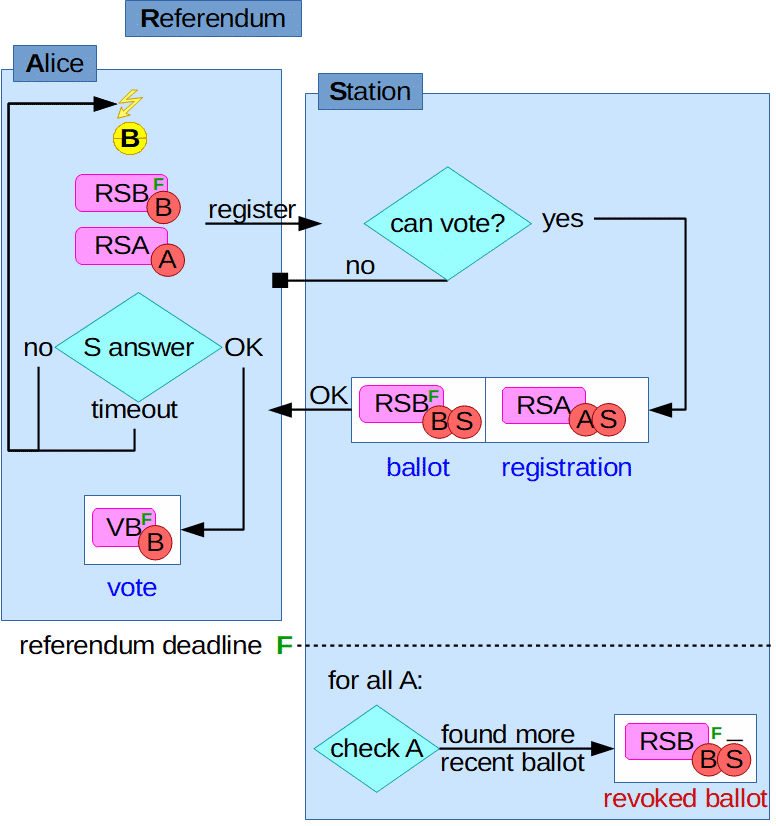
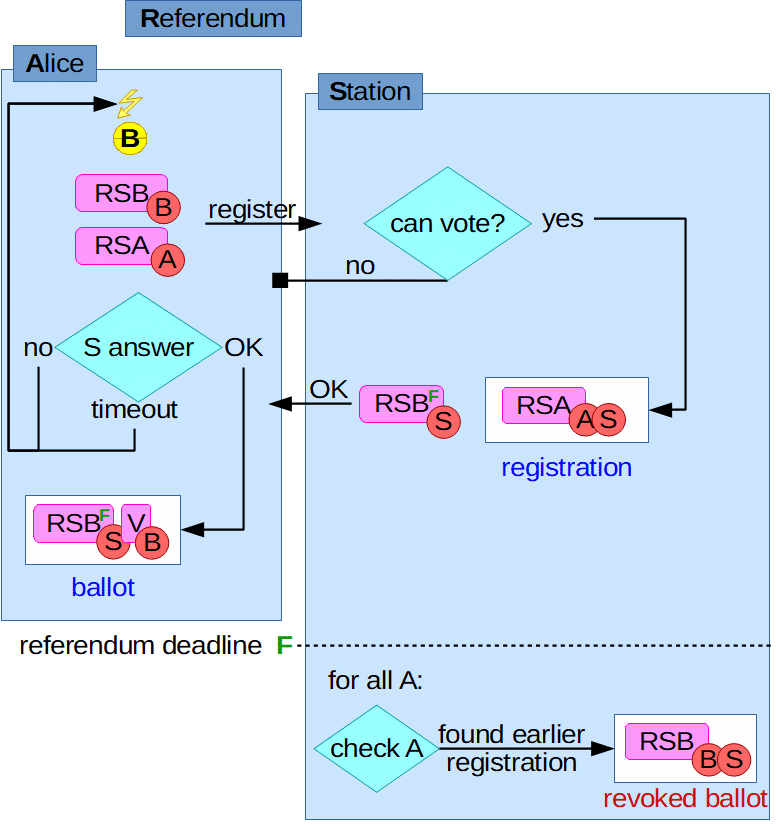
Simplified & reinforced

diff --git a/voting.md b/voting.md
@@ -58,40 +58,39 @@ It is summarized on the following figure:
 ### 1.1 Registration
 
 The citizen `A` choose a referendum `R` and a polling station `S` she will use for that vote.
+`F` is the *deadline* of `R`.
 `R` includes a reference to a trustee `T` which represents the authority for `R`.
 `A` creates a new pair of cryptographic keys `B` for her ballot.
 `A` creates a ballot structure containing the public keys of `R`, `S` and `B` and signs it with her `B` key: `RSBb`.
-The ballot also contains a publication date (*published*) set to `F`, which is the *deadline* of `R`.
+The ballot also contains a publication date (*published*) set to the current date, which means it can be published now.
 That means, it won't be made public before this date.
 `A` creates a registration structure, that is containing the public keys of `R`, `S` and `A` and sign it with her `A` key: `RSAa`.
-The publication date (*published*) of the registration is set to the current date, which means it can be published now.
+The publication date (*published*) of the registration is set to the current date.
 `A` sends `RSBb + RSAa` to `S` and waits for an answer.
-If `S` takes too long to answer or answers anything else than `RSBbs + RSAas`, proceed to **1.1 Registration**, likely with a different polling station.
-Check the answer of `S`: `R`, `S`, `B` and `A` public keys and check the 4 signatures.
+If `S` takes too long to answer or answers anything else than `RSBs + RSAas`, proceed to **1.1 Registration**, likely with a different polling station.
+Check the answer of `S`: `R`, `S`, `B` and `A` public keys and check the 3 signatures.
 If any check fails, proceed to **1.1 Registration**, likely with a different polling station.
 Else proceed to **1.2 Vote**.
 
 ### 1.2 Vote
 
-`A` creates a vote structure containing her answer `V` to `R`, her `B` key and signs it with her `B` key: `VBb`.
-The vote publication date (*published*) is set to `F`.
-That means, it won't be made public before this date.
-After some random time but before `F`, `A` publishes `VBb`.
+`A` uses the `RSBs` ballot structure it just received from `S`, add her vote answer `V` and signs it with her `B` key: `RSBsVb`.
+After some random time but before `F`, `A` publishes `RSBsVb`.
 
 ## 2 Stations
 
 ### 2.1 Registration Desk
 
 If `S` receives no `RSBb + RSAa` message from `A` until the *deadline* of `R` is reached, proceed to **2.2 Registrations Check**.
-`S` receives `RSBb + RSAa`. It checks that `S` corresponds to itself, that `R` exists, that the *published* and *expired* dates are correct and checks the 2 signatures. The *published* date should be very close to now for `RSAa` and `F` for `RSBb`.
+`S` receives `RSBb + RSAa`. It checks that `S` corresponds to itself, that `R` exists, that the *published* and *expired* dates are correct and checks the 2 signatures. The *published* date should be very close to now for `RSAa` and `RSBb`.
 `S` also checks that `A` did not already registered with it.
 Then, `S` checks the available publications to determine if `A` is allowed to vote to `R`:
 First, `S` checks if there is a valid publication signed by `T` and endorsing `A`.
 Then, `S` checks from publications signed by `T` if the *latitude* and *longitude* of `A` lies in the *area* of `R`.
 If any check fails, `S` replies "no" to `A`, with possibly some explanation why it refused her and proceed to **2.1 Registration Desk**.
-Otherwise `S`, signs both structures so that it is now `RSBbs` and `RSAas`.
-It publishes `RSAas` and will publish `RSBbs` just before `F`.
-It sends `RSBbs + RSAas` back to `A` and proceed to **2.1 Registration Desk** to possibly handle other citizen registrations.
+Otherwise `S` removes the `b` signature from `RSBb`, set the publication date (*published*) of `RSB` to `F` and signs both structures: `RSBs` and `RSAas`.
+It publishes `RSAas` immediately.
+It sends `RSBs + RSAas` back to `A` and proceed to **2.1 Registration Desk** to possibly handle other citizen registrations.
 
 ### 2.2 Registrations Check
 
@@ -99,19 +98,19 @@ At this point, `F` is reached.
 Each station `S` checks from the publications that all the citizens who registered with them with a `RSAas` did not register in another station with a more recent `RSAas`.
 If a citizen `A` registered more recently with another station, e.g., a more recent `RSAas` is found with a different `S`, then proceed to **2.3 Rejection**.
 `S` should check all its citizen registrations this way and reject all wrong ballots (if any).
-This should happen within a short delay after *deadline* as observers will start counting votes quickly.
+This should happen within a short delay after `F` as observers will start counting votes quickly.
 Once done, it is recommended that `S` clears its database to keep no record linking citizens `A` to ballots `B` for `R`.
 This should prevent the possible revelation of citizens' votes in case of a later malicious intrusion in the database.
 Such an event would obviously compromise the reputation of the `S`.
 
 ### 2.3 Rejection
 
-`S` publishes the original `RSBb` it received from `A`, adds a revoke flag and signs it: `RSBbs-`.
-This cancels the corresponding ballot and vote before the upcoming counting.
+`S` publishes the original `RSBb` it received from `A` and signs it: `RSBbs`.
+This cancels the corresponding `RSBsVb` ballot (if any) before the upcoming counting.
 
 ## 3 Observers & Trustees
 
-After the *deadline* for `R` has passed, the observers, including trustees, can start checking the results.
+After the `F` has passed, the observers, including trustees, can start checking the results.
 It may be possible that some stations didn't yet finished their registrations check (see **2.2 Registrations Check**) or will never finish it.
 An unfinished registrations check will cause the votes of the corresponding station not being counted until the registrations check is complete.
 If a station takes too long (or forever) to complete its registrations check, its reputation will decrease accordingly.
@@ -134,16 +133,16 @@ Copy the list of eligible stations to the list of valid stations.
 
 For each station in the list of valid stations, check that the registrations check is complete (see **2.2 Registrations Check**):
 Mark the all `RSAas` of a station as valid if they are the most recent `RSAas` with the same `R` and `A` but a different `S` among the list of valid stations.
-Similarly, mark all the `RSBbs` ballots of a station as valid if they are not revoked with a corresponding `RSBbs-` (same `R`, `S` and `B`).
+Similarly, mark all the `RSBsVb` ballots of a station as valid if they are not revoked with a corresponding `RSBbs` (same `R`, `S` and `B`).
 If the count of valid registrations does not equal the count of valid ballots, the station is withdrawn from the list of valid stations and added to the list of suspicious stations.
 Station in the list of suspicious stations are likely to get a bad reputation.
 Once all the stations have been checked, if at least one station was withdrawn, **loop back to 3.4**.
 
 ### 3.5 Votes Counting
 
-For each station in the list of valid stations, get all the valid `RSBbs` and their corresponding `VBb` if any.
-If several `VBb` are found they are all disregarded.
-Otherwise, the `VBb` is added to the list of valid votes and its *answer* is counted.
+For each station in the list of valid stations, get all the valid `RSBsVb`.
+If several `RSBsVb` are found with the same `R` and same `B` they are all disregarded.
+Otherwise, `V` *answer* is counted.
 
 Observers may iterate the whole process again by looping through **3.3**, **3.4** and **3.5** for a while to get an increasingly precise result for the vote (while the polling stations are still proceeding with registrations checks).
 
